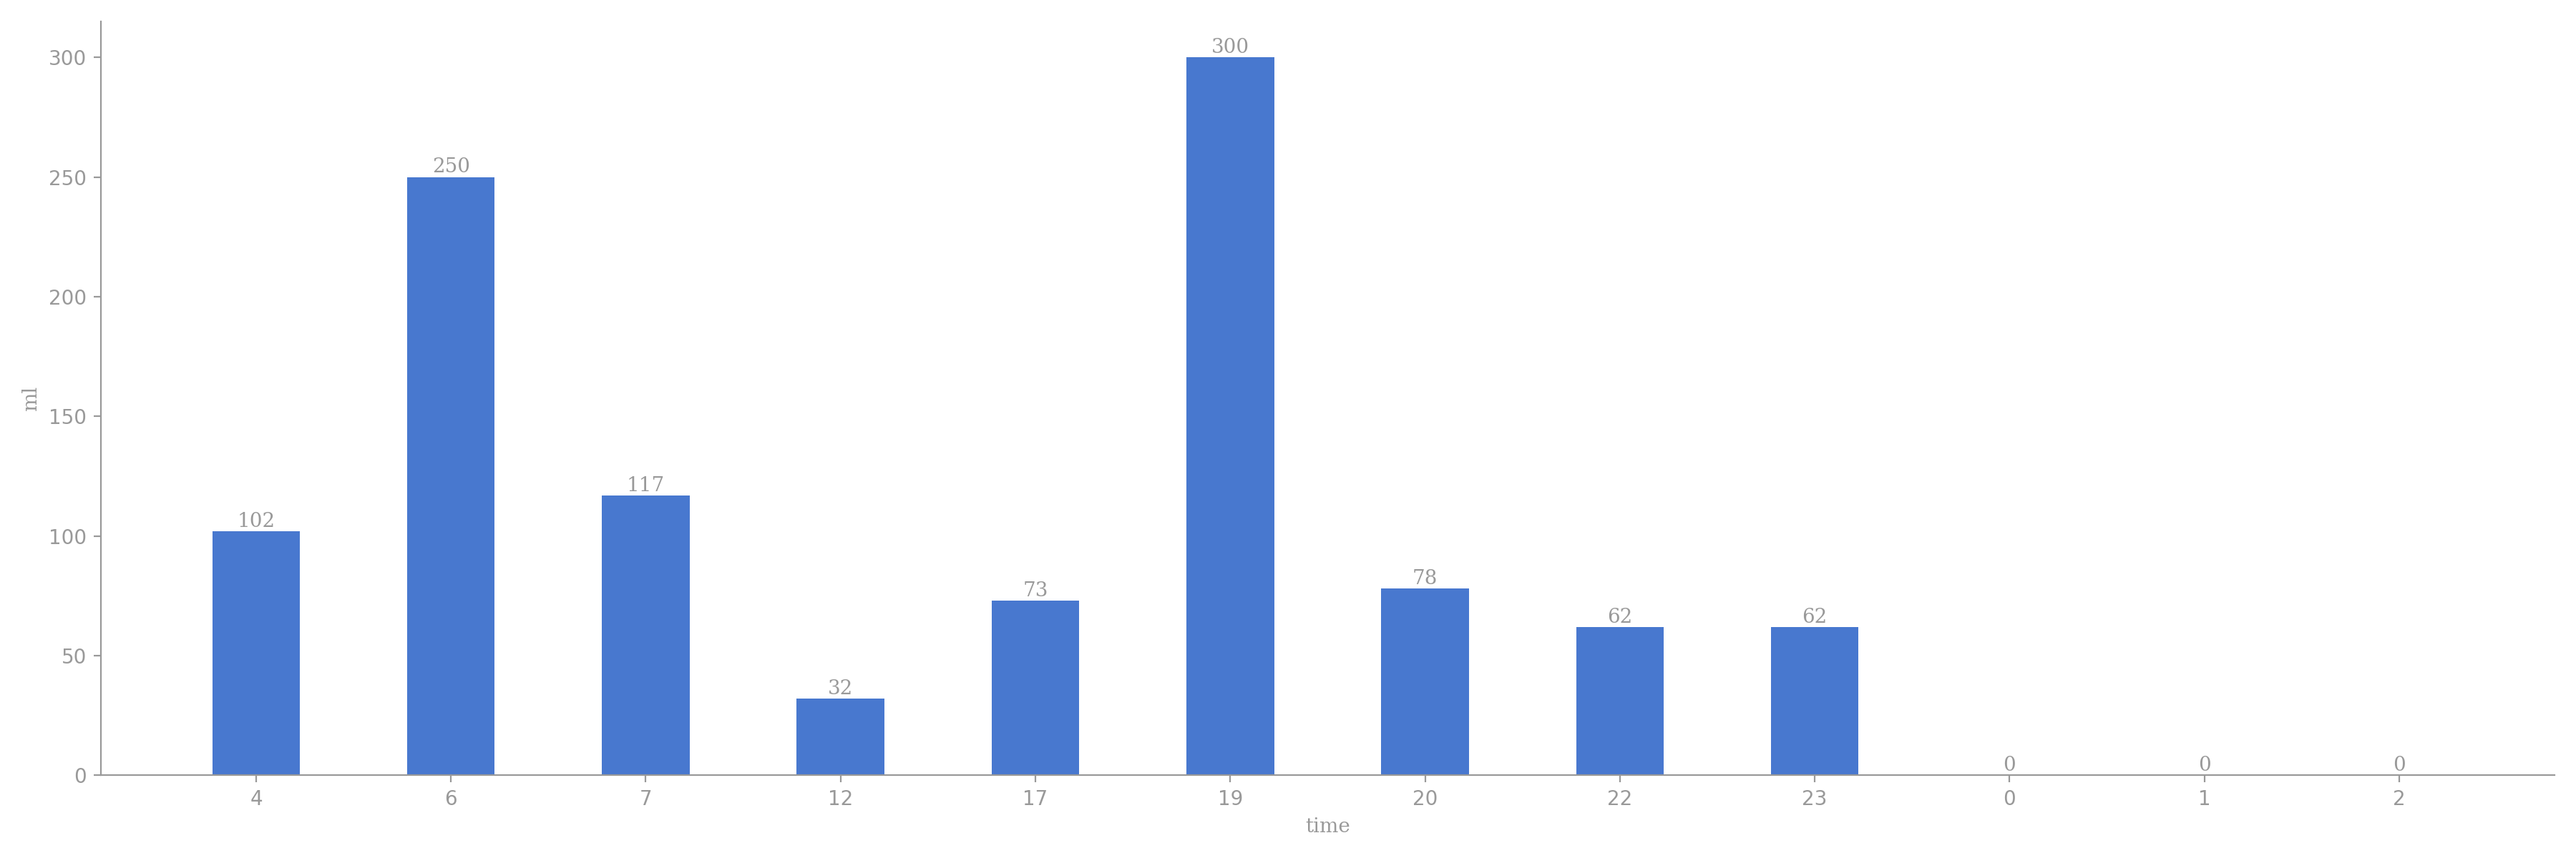
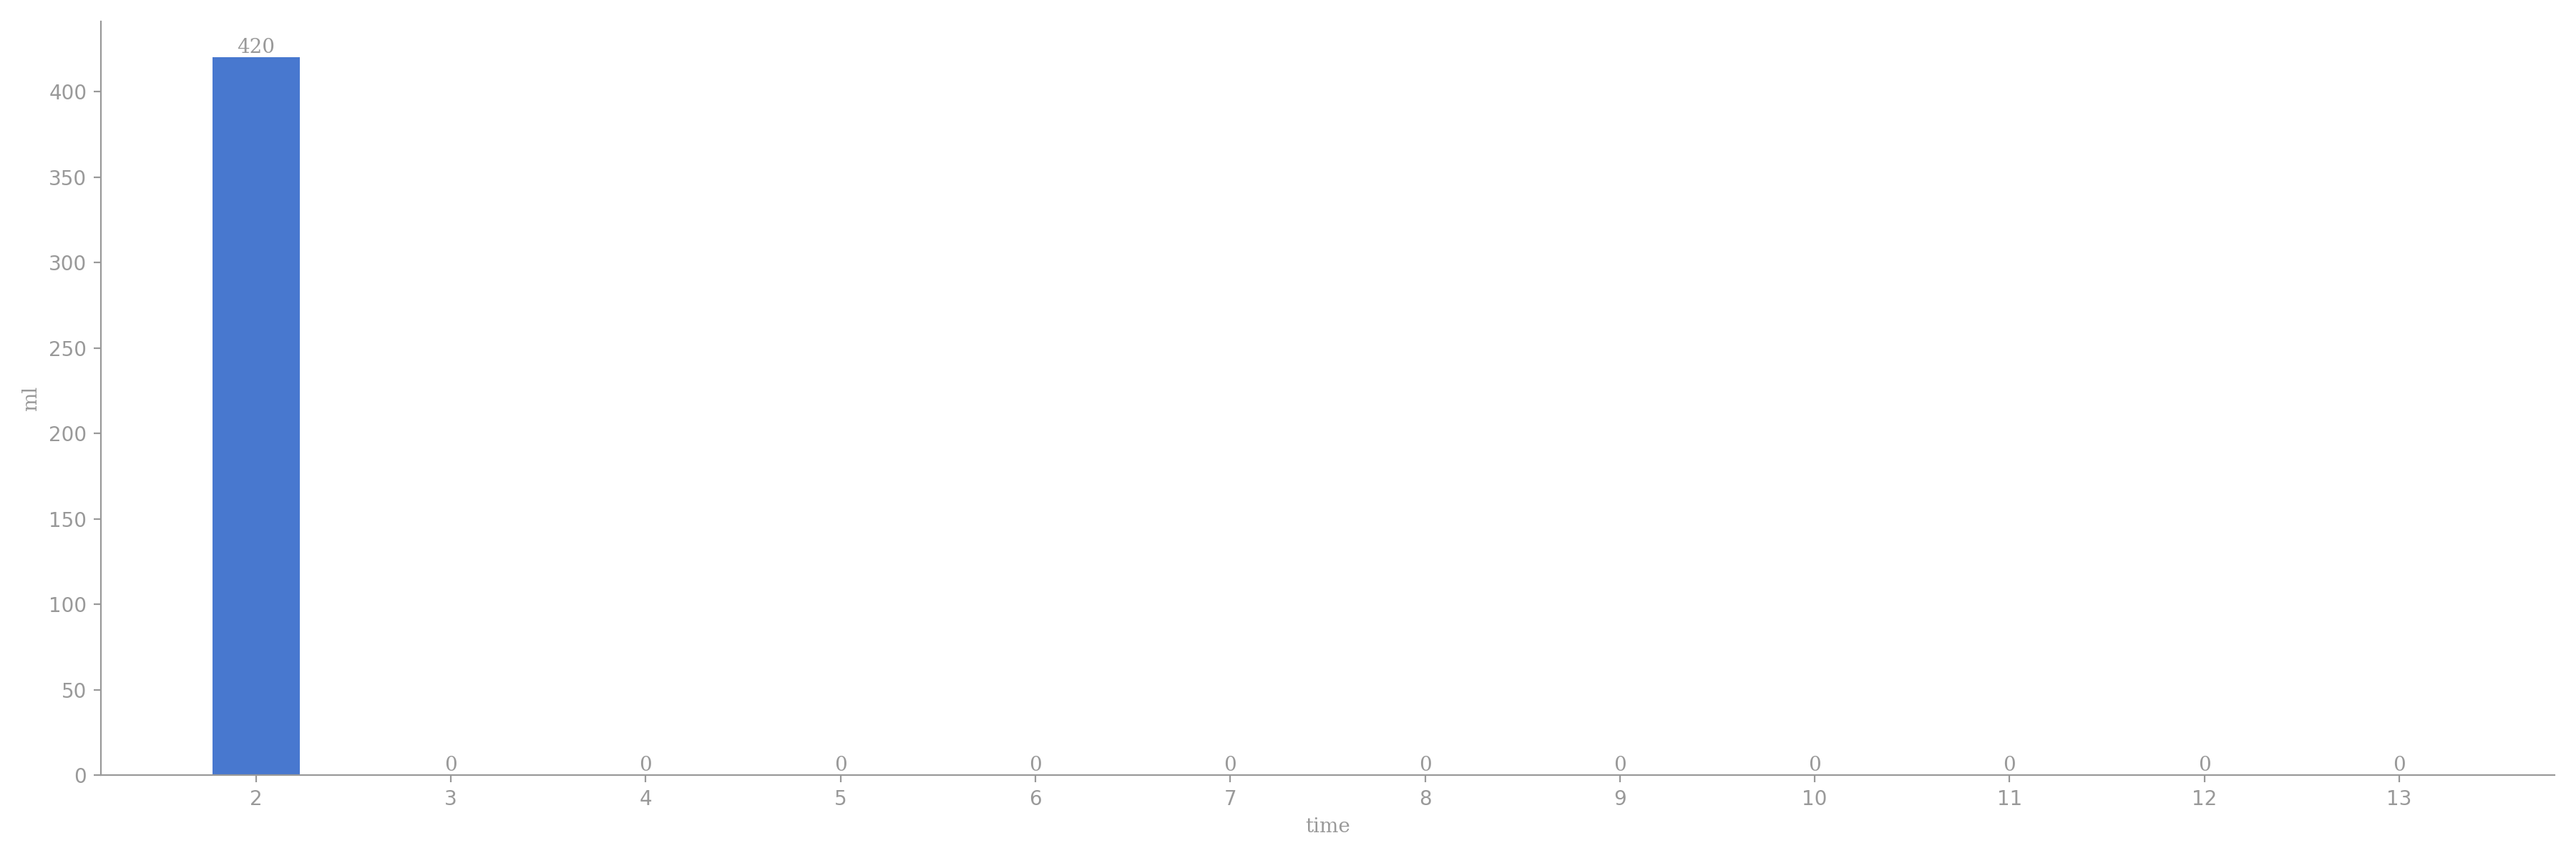
crontab auto git

diff --git a/README.md b/README.md
@@ -1,3 +1,17 @@
+# 今日饮水数据
+
+<div align=center>
+<img src="today.png" style="zoom: 100%;" />
+
+| 今日总饮水量 | 每小时平均饮水量 |
+| :----: | :----: |
+| 420 | 420 |
+</div>
+
+| 日期 | 02:49:48 |
+| :----: | :----: |
+| 2025-07-13 | 420 |
+
 # 近30日饮水数据
 
 <div align=center>
